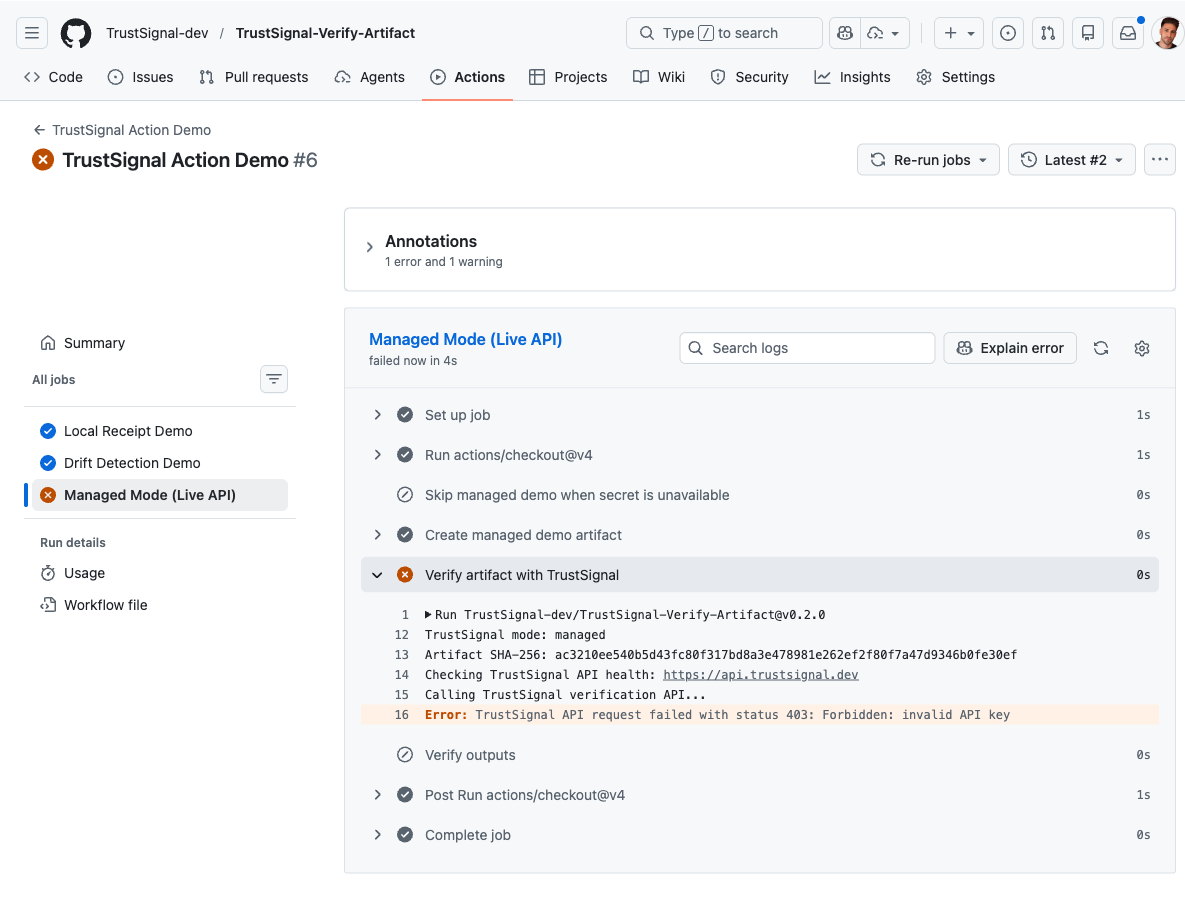
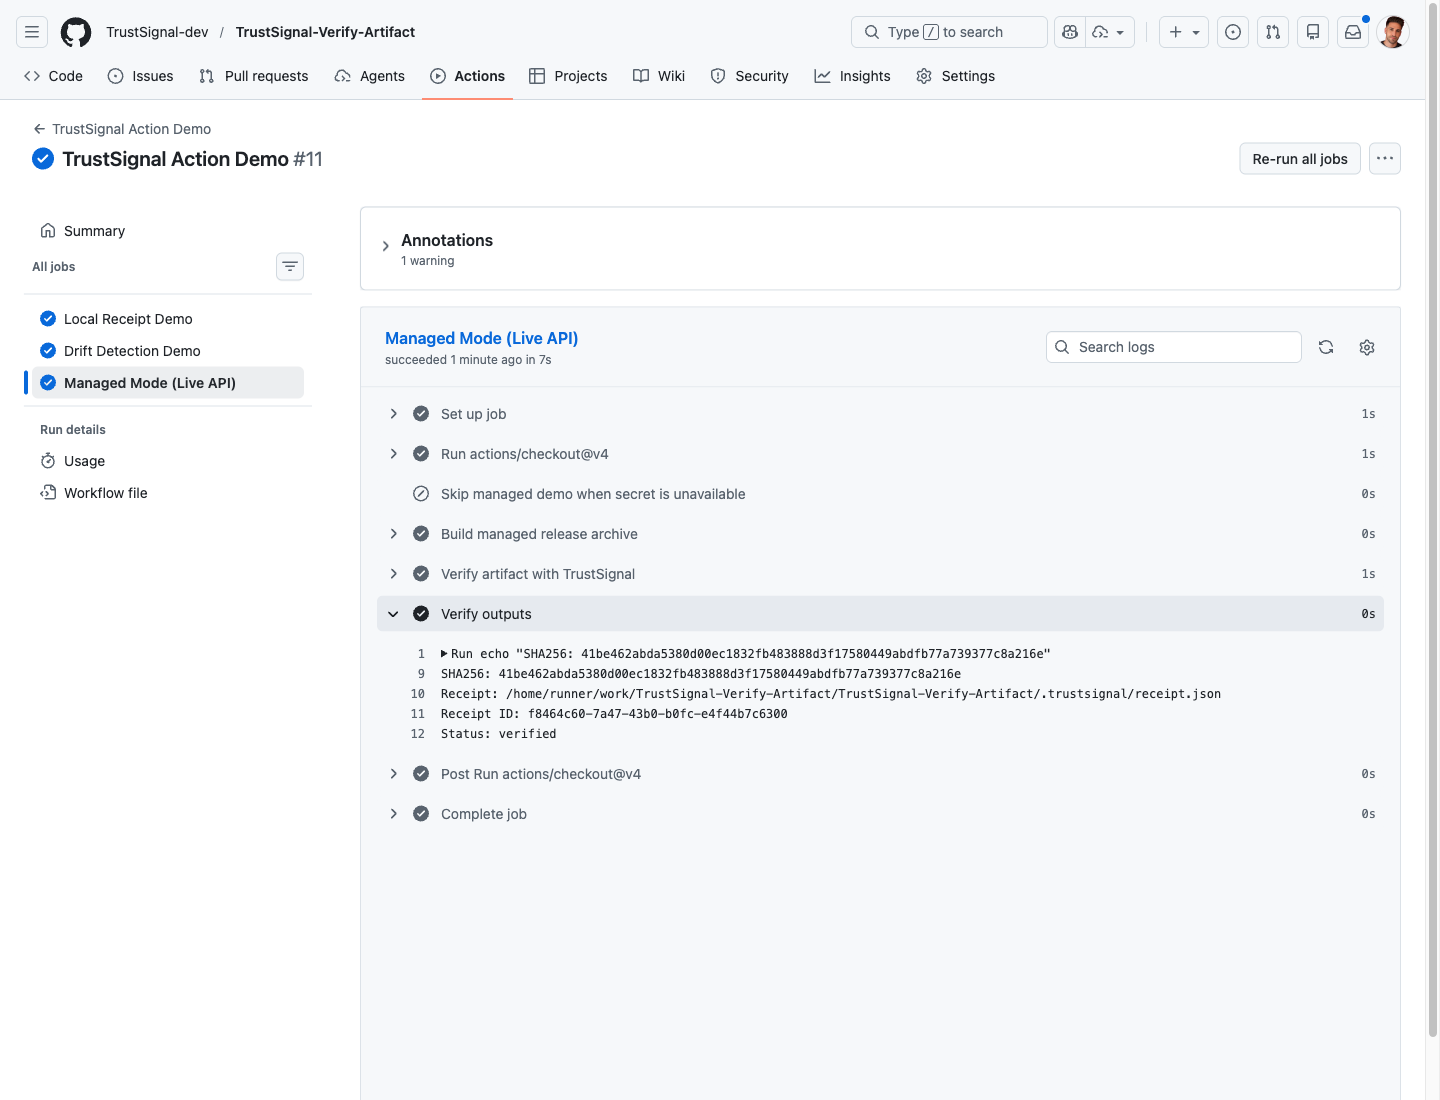
docs(demo): refresh live workflow walkthrough assets

diff --git a/docs/demo-recording-script.md b/docs/demo-recording-script.md
@@ -21,7 +21,7 @@ Have these ready:
 - `.github/workflows/demo.yml` open in another tab
 - `https://api.trustsignal.dev/health` ready in another tab
 - the passing example run available:
-  - `https://github.com/TrustSignal-dev/TrustSignal-Verify-Artifact/actions/runs/23471497658`
+  - `https://github.com/TrustSignal-dev/TrustSignal-Verify-Artifact/actions/runs/23472323481`
 
 Confirm:
 
@@ -71,7 +71,7 @@ Duration:
 
 What to do:
 
-- show the queued or in-progress run screen
+- show the completed run summary with all three jobs visible
 
 Say:
 

diff --git a/docs/how-to-demo-guide.md b/docs/how-to-demo-guide.md
@@ -46,7 +46,7 @@ Then run it from the GitHub Actions UI:
 
 Passing example run:
 
-- [TrustSignal Action Demo #23471497658](https://github.com/TrustSignal-dev/TrustSignal-Verify-Artifact/actions/runs/23471497658)
+- [TrustSignal Action Demo #23472323481](https://github.com/TrustSignal-dev/TrustSignal-Verify-Artifact/actions/runs/23472323481)
 
 ### What each job proves
 
